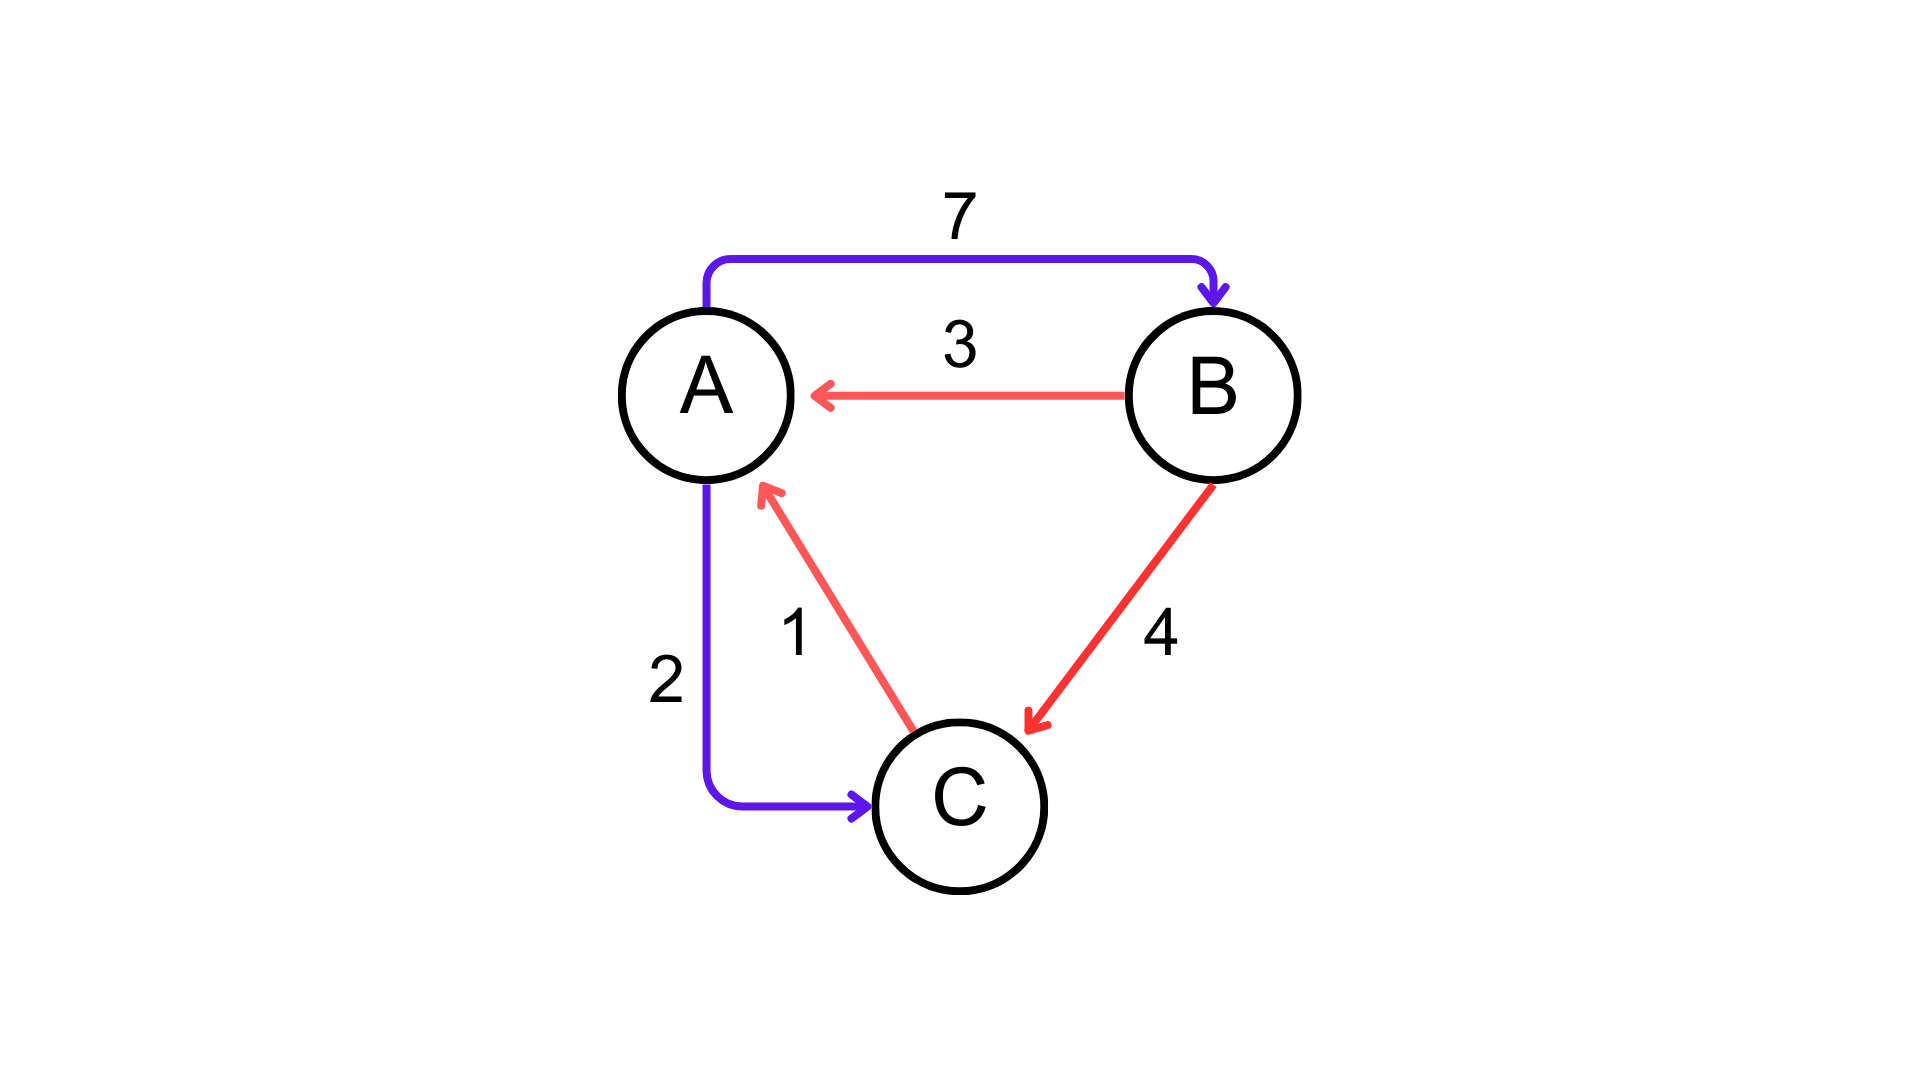
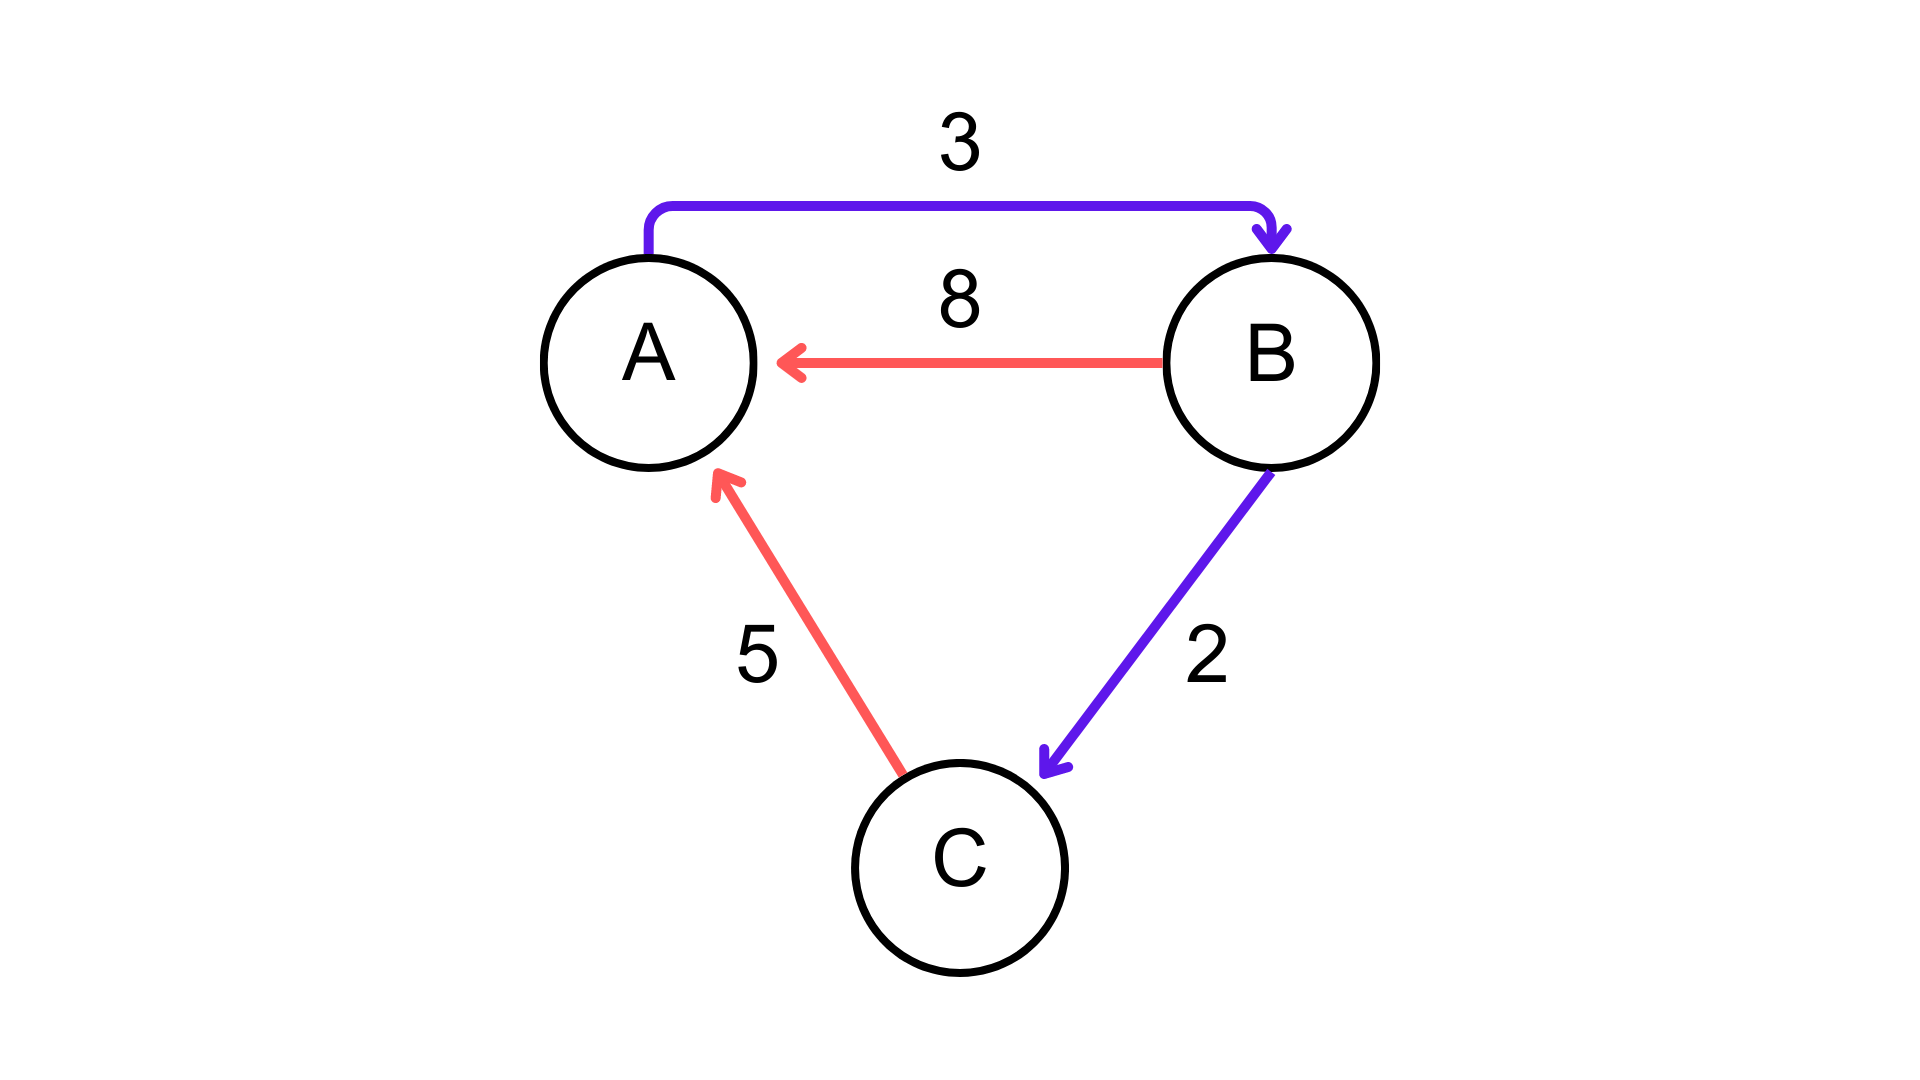
novos checkpoints

Changed region(s): [[0.2812, 0.1833, 0.7188, 0.8861], [0.4688, 0.8861, 0.5312, 0.9167], [0.5, 0.1222, 0.5312, 0.1528]]

diff --git a/site/exemplo.html b/site/exemplo.html
@@ -51,7 +51,38 @@
 <p>Se conseguiu completar corretamente, quer dizer que já entendeu os objetivos, e pode seguir para o próximo Checkpoint. Se não compreendeu é importante ler as regras novamente e ver se ao construir sua Matriz seguiu todas elas.</p>
 </details>
 </blockquote>
-<p>Se temos os pesoss de uma matriz</p>
+<p>Com todos os pesos dos nodos em uma matriz podemos encontrar o caminho de menor peso entre dois nodos. Pensei na melhor forma de encontrar o menor caminho e aplique este formato nos checkpoints abaixo.</p>
+<blockquote class="question">
+<p>Checkpoint</p>
+<p>Qual o menor caminho entre o Nodo A e B?</p>
+<figure class="img"><img src="img/Exemplo-1.png" alt="" style="max-height: 13em;"></figure>
+<details class="answer">
+<summary>Gabarito</summary>
+<figure class="img"><img src="img/matriz-exemplo.png" alt=""></figure>
+<p>Se conseguiu completar corretamente, quer dizer que já entendeu os objetivos, e pode seguir para o próximo Checkpoint. Se não compreendeu é importante ler as regras novamente e ver se ao construir sua Matriz seguiu todas elas.</p>
+</details>
+</blockquote>
+<blockquote class="question">
+<p>Checkpoint</p>
+<p>Qual o menor caminho entre o nodo D e C?</p>
+<figure class="img"><img src="img/Exemplo-1.png" alt="" style="max-height: 13em;"></figure>
+<details class="answer">
+<summary>Gabarito</summary>
+<figure class="img"><img src="img/matriz-exemplo.png" alt=""></figure>
+<p>Se conseguiu completar corretamente, quer dizer que já entendeu os objetivos, e pode seguir para o próximo Checkpoint. Se não compreendeu é importante ler as regras novamente e ver se ao construir sua Matriz seguiu todas elas.</p>
+</details>
+</blockquote>
+<blockquote class="question">
+<p>Checkpoint</p>
+<p>Qual o menor caminho entr o nodo B e C?</p>
+<figure class="img"><img src="img/Exemplo-1.png" alt="" style="max-height: 13em;"></figure>
+<details class="answer">
+<summary>Gabarito</summary>
+<figure class="img"><img src="img/matriz-exemplo.png" alt=""></figure>
+<p>Se conseguiu completar corretamente, quer dizer que já entendeu os objetivos, e pode seguir para o próximo Checkpoint. Se não compreendeu é importante ler as regras novamente e ver se ao construir sua Matriz seguiu todas elas.</p>
+</details>
+</blockquote>
+<p>Você deve ter percebido que é extremamente trabalhoso encontrar o menor caminho para cada um dos casos, e conforme o grafo se torna mais complexo, se torna mais dificil encontrar. Por isso, o algoritmo de Floyd-Warshall foi criado, para encontrar todos os menores caminhos de um grafo de forma eficiente - e entregar a resposta em uma matriz de mesmo tamanho que a inicial.</p>
 <h2>Implementação em Alto Nível | Como Funciona o Algoritmo?</h2>
 <p>Após apresentado o problema que o Algoritmo propõe resolver, será abordado mais a fundo como este algoritmo funciona, quais os inputs e outputs esperados em sua implementação e demonstrado alguns exemplos práticos.</p>
 <p>Iniciando por seu Input, o Floyd Warshall recebe um Grafo - uma matriz de pesos, que representam a complexidade de viajar de um ponto até outro, ou, em outras palavras os pesos das arestas. E utiliza de 3 loops de for para passar por todos os elementos do Grafo recebido. Como é possível ver, abaixo têm uma representação de como seria implementado deste algoritmo:</p>

diff --git a/src/exemplo.md b/src/exemplo.md
@@ -41,7 +41,46 @@ Qual a matriz de pesos do Grafo abaixo?
 Se conseguiu completar corretamente, quer dizer que já entendeu os objetivos, e pode seguir para o próximo Checkpoint. Se não compreendeu é importante ler as regras novamente e ver se ao construir sua Matriz seguiu todas elas.
 ???
 
-Se temos os pesoss de uma matriz
+Com todos os pesos dos nodos em uma matriz podemos encontrar o caminho de menor peso entre dois nodos. Pensei na melhor forma de encontrar o menor caminho e aplique este formato nos checkpoints abaixo.
+
+??? Checkpoint
+Qual o menor caminho entre o Nodo A e B?
+
+![](Exemplo-1.png|13)
+
+::: Gabarito
+
+![](matriz-exemplo.png)
+
+Se conseguiu completar corretamente, quer dizer que já entendeu os objetivos, e pode seguir para o próximo Checkpoint. Se não compreendeu é importante ler as regras novamente e ver se ao construir sua Matriz seguiu todas elas.
+???
+
+??? Checkpoint
+Qual o menor caminho entre o nodo D e C?
+
+![](Exemplo-1.png|13)
+
+::: Gabarito
+
+![](matriz-exemplo.png)
+
+Se conseguiu completar corretamente, quer dizer que já entendeu os objetivos, e pode seguir para o próximo Checkpoint. Se não compreendeu é importante ler as regras novamente e ver se ao construir sua Matriz seguiu todas elas.
+???
+
+??? Checkpoint
+Qual o menor caminho entr o nodo B e C?
+
+![](Exemplo-1.png|13)
+
+::: Gabarito
+
+![](matriz-exemplo.png)
+
+Se conseguiu completar corretamente, quer dizer que já entendeu os objetivos, e pode seguir para o próximo Checkpoint. Se não compreendeu é importante ler as regras novamente e ver se ao construir sua Matriz seguiu todas elas.
+???
+
+Você deve ter percebido que é extremamente trabalhoso encontrar o menor caminho para cada um dos casos, e conforme o grafo se torna mais complexo, se torna mais dificil encontrar. Por isso, o algoritmo de Floyd-Warshall foi criado, para encontrar todos os menores caminhos de um grafo de forma eficiente - e entregar a resposta em uma matriz de mesmo tamanho que a inicial.
+
 
 Implementação em Alto Nível | Como Funciona o Algoritmo?
 ---------
